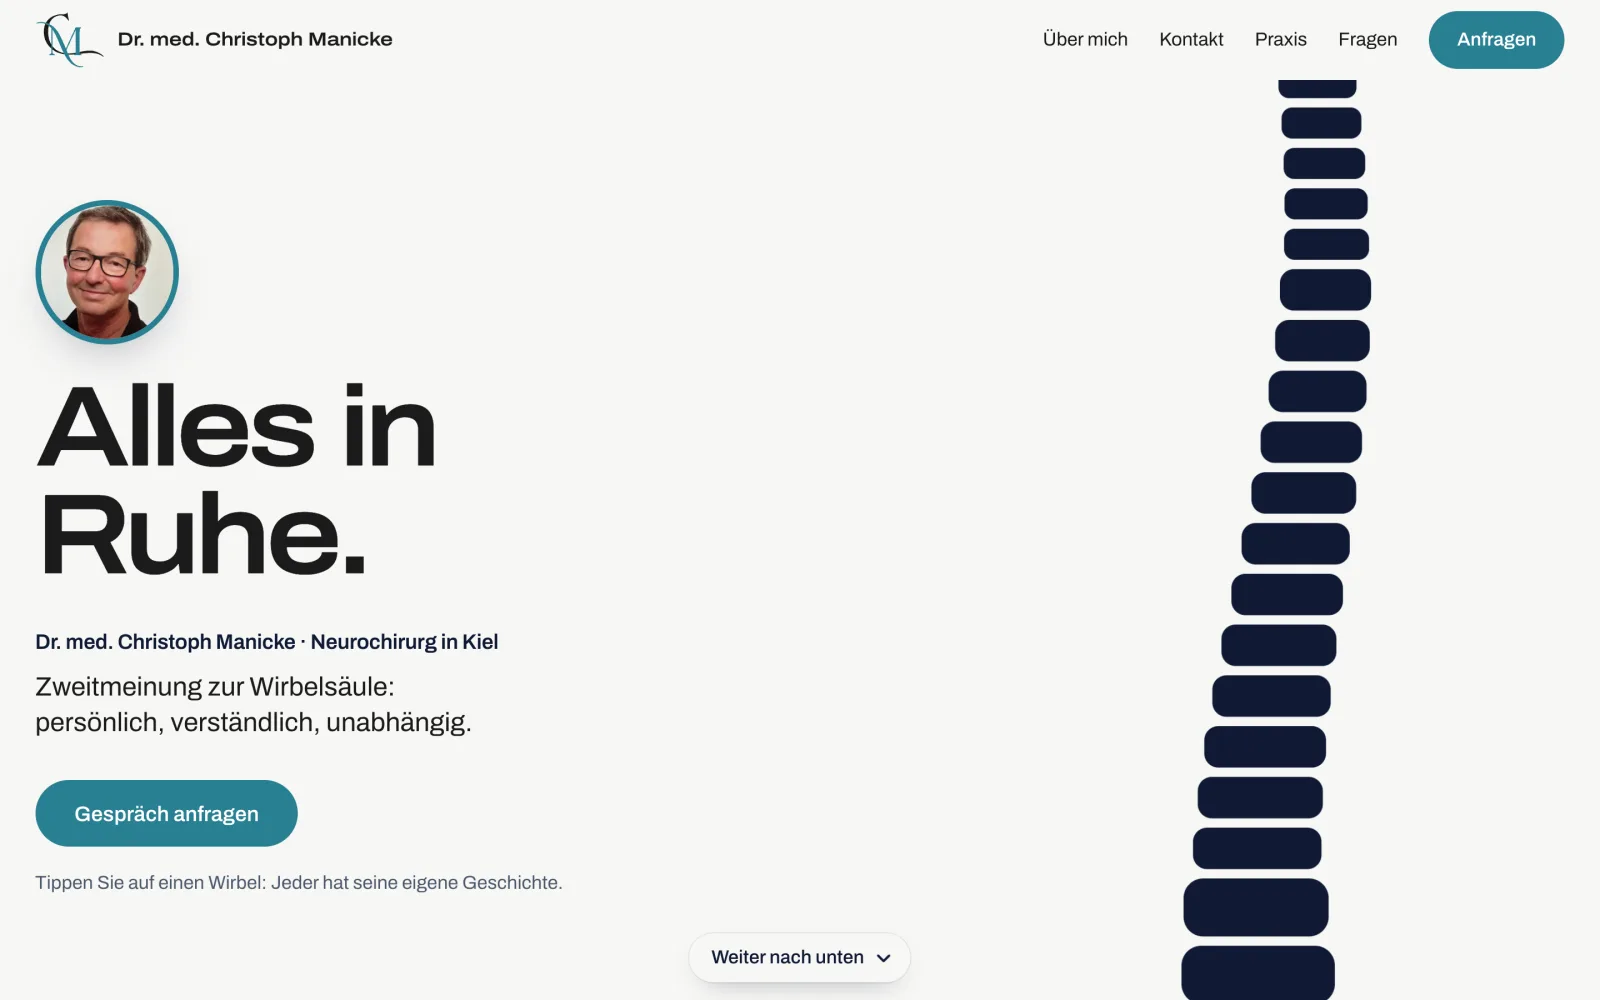
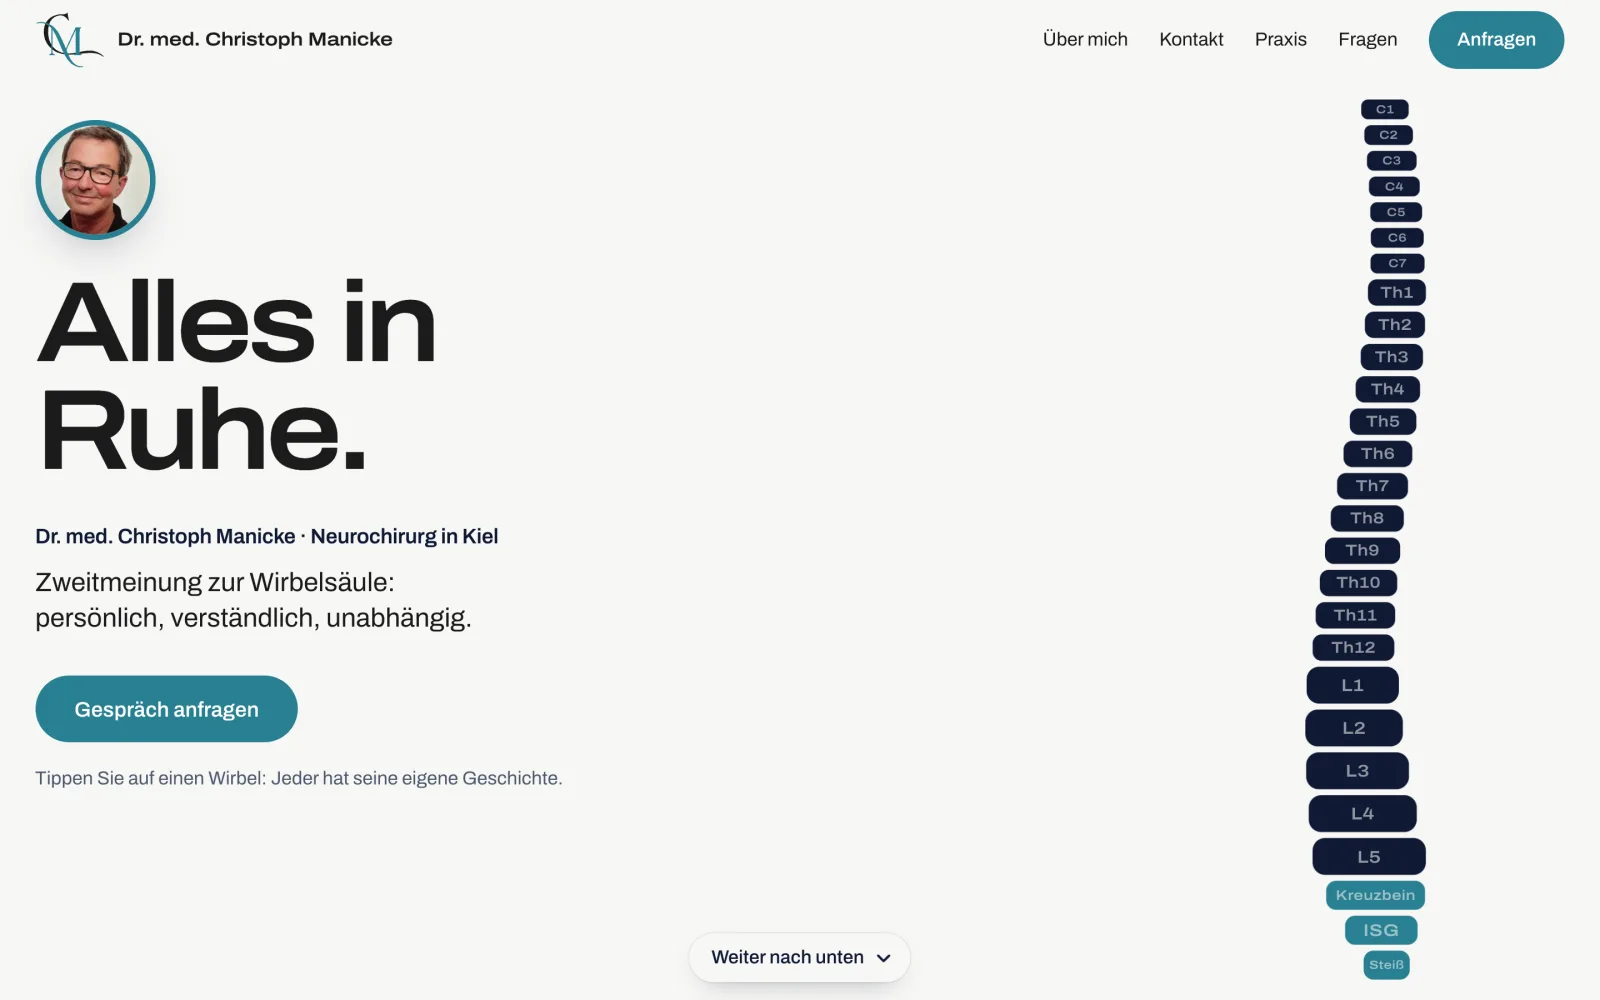
Startseite: Manicke-Link auf /fancy/, neue Screenshots
Die Karte verlinkt christophmanicke.de/fancy/ und zeigt Screenshots
dieser Seite (Desktop und Handy). Deutsch und Englisch.

Changed region(s): [[0.7188, 0.062, 0.9062, 1.0], [0.0, 0.124, 0.3125, 0.744], [0.0, 0.775, 0.3438, 0.899]]

diff --git a/public/en/index.html b/public/en/index.html
@@ -276,7 +276,7 @@ section, .stage { scroll-margin-top:72px; }
 <a class="slot" href="https://zww-kiel.de" target="_blank" rel="noopener"><div class="ph"><div class="card"><div class="bar">zww-kiel.de</div><img src="../assets/zww.webp" alt="Home page of ZWW Uni Kiel" width="1600" height="1000"></div><img class="phone" src="../assets/zww-mobil.webp" alt="" width="600" height="1298"></div><h3 class="s reveal">ZWW Uni Kiel</h3><p class="meta reveal">University, continuing education</p></a>
 <a class="slot" href="https://habibihermanos.de" target="_blank" rel="noopener"><div class="ph"><div class="card"><div class="bar">habibihermanos.de</div><img src="../assets/habibi.webp" alt="Home page of Habibi Hermanos" width="1600" height="1000"></div><img class="phone" src="../assets/habibi-mobil.webp" alt="" width="600" height="1298"></div><h3 class="s reveal">Habibi Hermanos</h3><p class="meta reveal">Music, Kiel</p></a>
 <a class="slot" href="https://simonernstnirnberger.at" target="_blank" rel="noopener"><div class="ph"><div class="card"><div class="bar">simonernstnirnberger.at</div><img src="../assets/simon.webp" alt="Home page of Simon Ernst Nirnberger" width="1600" height="1000"></div><img class="phone" src="../assets/simon-mobil.webp" alt="" width="600" height="1298"></div><h3 class="s reveal">Simon Ernst Nirnberger</h3><p class="meta reveal">Fine art</p></a>
-<a class="slot" href="https://christophmanicke.de" target="_blank" rel="noopener"><div class="ph"><div class="card"><div class="bar">christophmanicke.de</div><img src="../assets/manicke.webp" alt="Home page of Dr. med. Christoph Manicke" width="1600" height="1000"></div><img class="phone" src="../assets/manicke-mobil.webp" alt="" width="600" height="1299"></div><h3 class="s reveal">Dr. med. Christoph Manicke</h3><p class="meta reveal">Neurosurgery, Kiel</p></a>
+<a class="slot" href="https://christophmanicke.de/fancy/" target="_blank" rel="noopener"><div class="ph"><div class="card"><div class="bar">christophmanicke.de/fancy</div><img src="../assets/manicke.webp" alt="Home page of Dr. med. Christoph Manicke" width="1600" height="1000"></div><img class="phone" src="../assets/manicke-mobil.webp" alt="" width="600" height="1299"></div><h3 class="s reveal">Dr. med. Christoph Manicke</h3><p class="meta reveal">Neurosurgery, Kiel</p></a>
 </div>
 </div>
 <div class="leaf" aria-hidden="true"><svg viewBox="585 140 470 490"><use href="#pg" style="fill:var(--paper);stroke:var(--paper)" stroke-width="30" stroke-linejoin="round"/><use href="#pg" style="fill:#BCD6EE"/><use href="#pg" style="fill:none;stroke:#BCD6EE" stroke-width="8" stroke-linejoin="round"/></svg></div>

diff --git a/public/index.html b/public/index.html
@@ -276,7 +276,7 @@ section, .stage { scroll-margin-top:72px; }
 <a class="slot" href="https://zww-kiel.de" target="_blank" rel="noopener"><div class="ph"><div class="card"><div class="bar">zww-kiel.de</div><img src="assets/zww.webp" alt="Startseite von ZWW Uni Kiel" width="1600" height="1000"></div><img class="phone" src="assets/zww-mobil.webp" alt="" width="600" height="1298"></div><h3 class="s reveal">ZWW Uni Kiel</h3><p class="meta reveal">Hochschule, Weiterbildung</p></a>
 <a class="slot" href="https://habibihermanos.de" target="_blank" rel="noopener"><div class="ph"><div class="card"><div class="bar">habibihermanos.de</div><img src="assets/habibi.webp" alt="Startseite von Habibi Hermanos" width="1600" height="1000"></div><img class="phone" src="assets/habibi-mobil.webp" alt="" width="600" height="1298"></div><h3 class="s reveal">Habibi Hermanos</h3><p class="meta reveal">Musik, Kiel</p></a>
 <a class="slot" href="https://simonernstnirnberger.at" target="_blank" rel="noopener"><div class="ph"><div class="card"><div class="bar">simonernstnirnberger.at</div><img src="assets/simon.webp" alt="Startseite von Simon Ernst Nirnberger" width="1600" height="1000"></div><img class="phone" src="assets/simon-mobil.webp" alt="" width="600" height="1298"></div><h3 class="s reveal">Simon Ernst Nirnberger</h3><p class="meta reveal">Bildende Kunst</p></a>
-<a class="slot" href="https://christophmanicke.de" target="_blank" rel="noopener"><div class="ph"><div class="card"><div class="bar">christophmanicke.de</div><img src="assets/manicke.webp" alt="Startseite von Dr. med. Christoph Manicke" width="1600" height="1000"></div><img class="phone" src="assets/manicke-mobil.webp" alt="" width="600" height="1299"></div><h3 class="s reveal">Dr. med. Christoph Manicke</h3><p class="meta reveal">Neurochirurgie, Kiel</p></a>
+<a class="slot" href="https://christophmanicke.de/fancy/" target="_blank" rel="noopener"><div class="ph"><div class="card"><div class="bar">christophmanicke.de/fancy</div><img src="assets/manicke.webp" alt="Startseite von Dr. med. Christoph Manicke" width="1600" height="1000"></div><img class="phone" src="assets/manicke-mobil.webp" alt="" width="600" height="1299"></div><h3 class="s reveal">Dr. med. Christoph Manicke</h3><p class="meta reveal">Neurochirurgie, Kiel</p></a>
 </div>
 </div>
 <div class="leaf" aria-hidden="true"><svg viewBox="585 140 470 490"><use href="#pg" style="fill:var(--paper);stroke:var(--paper)" stroke-width="30" stroke-linejoin="round"/><use href="#pg" style="fill:#BCD6EE"/><use href="#pg" style="fill:none;stroke:#BCD6EE" stroke-width="8" stroke-linejoin="round"/></svg></div>
